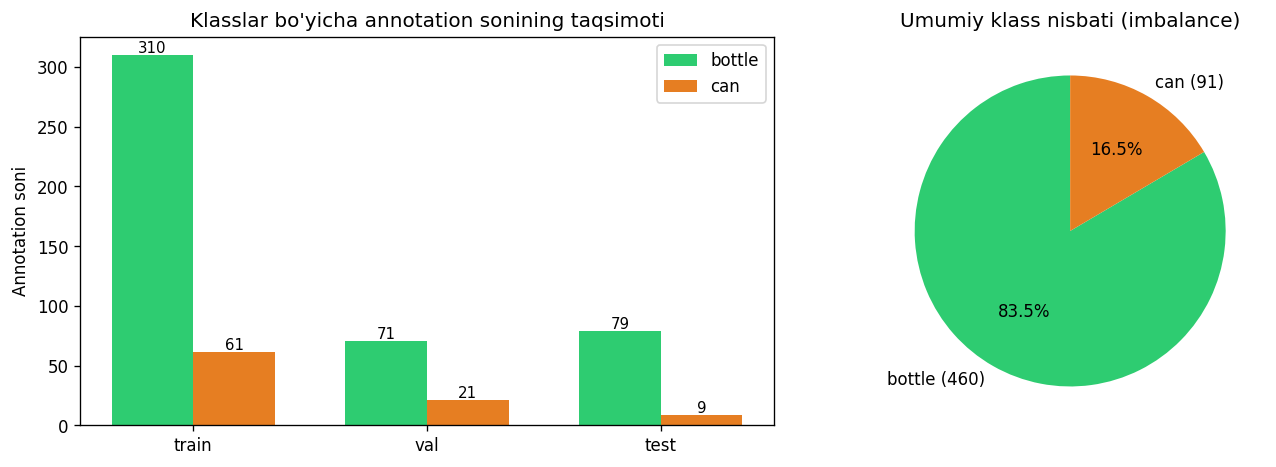
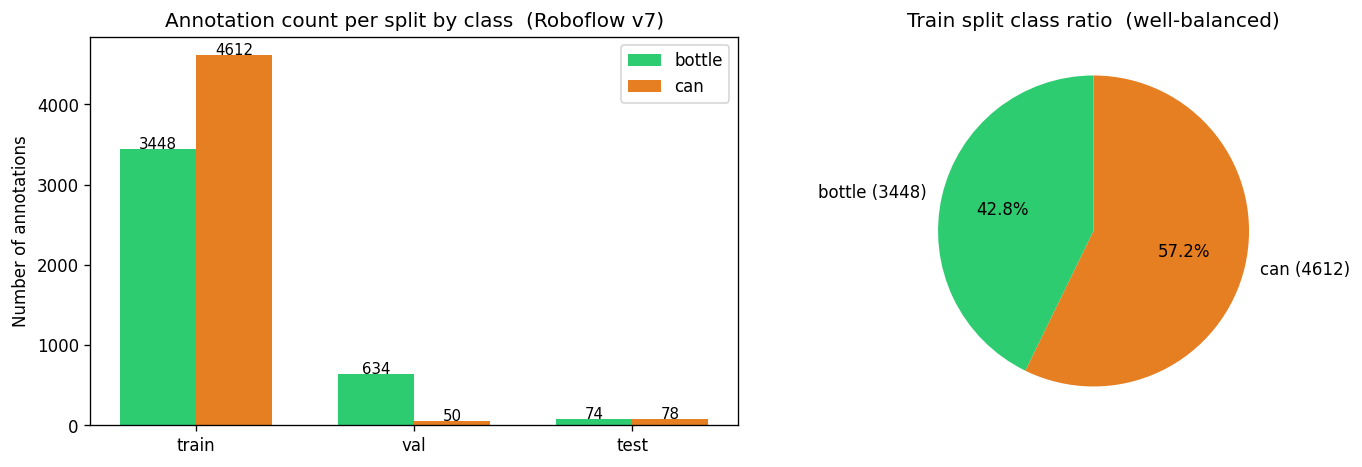
feat(stats): update class distribution chart for Roboflow v7 dataset

diff --git a/src/dataset_stats.py b/src/dataset_stats.py
@@ -17,16 +17,19 @@ matplotlib.use("Agg")
 import matplotlib.pyplot as plt
 
 ROOT = Path(__file__).resolve().parent.parent
-PROC = ROOT / "data" / "processed"
+DATASET = ROOT / "data" / "v7"
 OUT = ROOT / "results"
 OUT.mkdir(parents=True, exist_ok=True)
 
 CLASS_NAMES = ["bottle", "can"]
 
+VAL_SPLIT_NAME = "valid"  # Roboflow v7 uses "valid" not "val"
+
 
 def count_split(split: str) -> Counter:
     counts: Counter = Counter()
-    for lbl in glob.glob(str(PROC / split / "labels" / "*.txt")):
+    label_dir = DATASET / split / "labels"
+    for lbl in glob.glob(str(label_dir / "*.txt")):
         with open(lbl) as f:
             for line in f:
                 line = line.strip()
@@ -36,11 +39,12 @@ def count_split(split: str) -> Counter:
 
 
 def main() -> None:
-    splits = ["train", "val", "test"]
+    splits = ["train", VAL_SPLIT_NAME, "test"]
     data = {s: count_split(s) for s in splits}
 
     bottles = [data[s].get(0, 0) for s in splits]
     cans = [data[s].get(1, 0) for s in splits]
+    labels = ["train", "val", "test"]
 
     fig, axes = plt.subplots(1, 2, figsize=(12, 4))
 
@@ -50,18 +54,18 @@ def main() -> None:
     axes[0].bar([i - width / 2 for i in x], bottles, width, label="bottle", color="#2ecc71")
     axes[0].bar([i + width / 2 for i in x], cans, width, label="can", color="#e67e22")
     axes[0].set_xticks(list(x))
-    axes[0].set_xticklabels(splits)
-    axes[0].set_title("Annotation count per split by class")
+    axes[0].set_xticklabels(labels)
+    axes[0].set_title("Annotation count per split by class  (Roboflow v7)")
     axes[0].set_ylabel("Number of annotations")
     axes[0].legend()
     for i, v in enumerate(bottles):
-        axes[0].text(i - width / 2, v + 1, str(v), ha="center", fontsize=9)
+        axes[0].text(i - width / 2, v + 5, str(v), ha="center", fontsize=9)
     for i, v in enumerate(cans):
-        axes[0].text(i + width / 2, v + 1, str(v), ha="center", fontsize=9)
+        axes[0].text(i + width / 2, v + 5, str(v), ha="center", fontsize=9)
 
-    # Total pie chart
-    total_bottle = sum(bottles)
-    total_can = sum(cans)
+    # Total pie chart (train only — val is skewed by Roboflow augmentation strategy)
+    total_bottle = data["train"].get(0, 0)
+    total_can = data["train"].get(1, 0)
     axes[1].pie(
         [total_bottle, total_can],
         labels=[f"bottle ({total_bottle})", f"can ({total_can})"],
@@ -69,7 +73,7 @@ def main() -> None:
         autopct="%1.1f%%",
         startangle=90,
     )
-    axes[1].set_title("Overall class ratio (imbalance)")
+    axes[1].set_title("Train split class ratio  (well-balanced)")
 
     plt.tight_layout()
     out_path = OUT / "class_distribution.png"
@@ -77,16 +81,15 @@ def main() -> None:
     print(f"[OK] Saved: {out_path}")
 
     print("\nSummary:")
-    for s in splits:
+    for s, label in zip(splits, labels):
         b = data[s].get(0, 0)
         c = data[s].get(1, 0)
         total = b + c
         if total > 0:
-            print(f"  {s:5s}: bottle={b}, can={c}  ({100*b/total:.1f}% / {100*c/total:.1f}%)")
-    total = total_bottle + total_can
-    print(f"\n  Overall: bottle={total_bottle} ({100*total_bottle/total:.1f}%), "
-          f"can={total_can} ({100*total_can/total:.1f}%)")
-    print(f"  Imbalance ratio bottle:can = {total_bottle/max(total_can,1):.2f}:1")
+            print(f"  {label:5s}: bottle={b}, can={c}  ({100*b/total:.1f}% / {100*c/total:.1f}%)")
+    t_total = total_bottle + total_can
+    print(f"\n  Train overall: bottle={total_bottle} ({100*total_bottle/t_total:.1f}%), "
+          f"can={total_can} ({100*total_can/t_total:.1f}%)")
 
 
 if __name__ == "__main__":